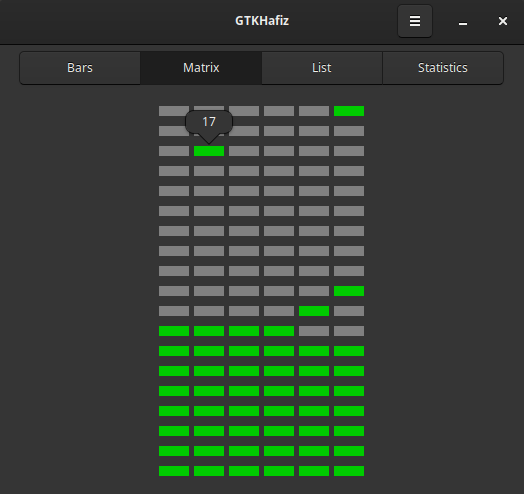
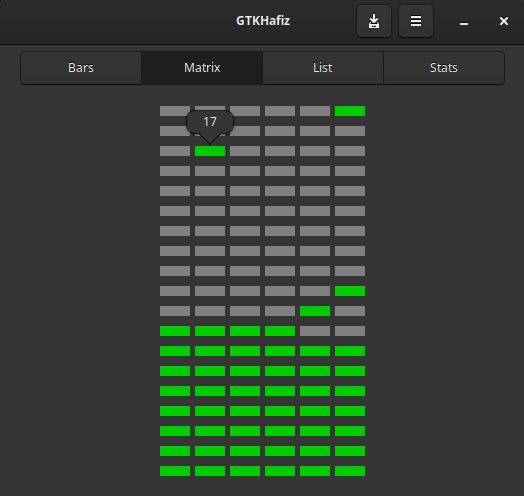
add save button to download bars image; add ctrl+q and ctrl+s shortcuts

diff --git a/src/window.py b/src/window.py
@@ -26,6 +26,15 @@ class Window(Gtk.Window):
                 self.pixbuf = None
                 print(f'Failed to load icon from "{icon_path}"')
 
+        # Shortcuts
+        self.accel_group = Gtk.AccelGroup()
+        self.add_accel_group(self.accel_group)
+
+        key, mod = Gtk.accelerator_parse("<Control>q")
+        self.accel_group.connect(key, mod, Gtk.AccelFlags.VISIBLE, self._on_ctrl_q)
+        
+        key, mod = Gtk.accelerator_parse("<Control>s")
+        self.accel_group.connect(key, mod, Gtk.AccelFlags.VISIBLE, self._on_ctrl_s)
         # Window dimensions
         self.set_size_request(580, 550)
         self.set_resizable(False)
@@ -38,9 +47,9 @@ class Window(Gtk.Window):
         # Menu Popover
         popover_menu = Gtk.Popover()
         vbox = Gtk.Box(orientation=Gtk.Orientation.VERTICAL)
-        bt_about = Gtk.ModelButton(label="About GTKHafiz")
-        bt_about.connect("clicked", self._on_click_about)
-        vbox.pack_start(bt_about, False, True, 10)
+        bt = Gtk.ModelButton(label="About GTKHafiz")
+        bt.connect("clicked", self._on_click_about)
+        vbox.pack_start(bt, False, True, 10)
         vbox.show_all()
         popover_menu.add(vbox)
         popover_menu.set_position(Gtk.PositionType.BOTTOM)
@@ -52,11 +61,19 @@ class Window(Gtk.Window):
         self.set_titlebar(headerbar)
 
         # Menu Button
-        bt_menu = Gtk.MenuButton(popover=popover_menu)
+        bt = Gtk.MenuButton(popover=popover_menu)
         icon = Gio.ThemedIcon(name="open-menu-symbolic")
         img_icon = Gtk.Image.new_from_gicon(icon, Gtk.IconSize.BUTTON)
-        bt_menu.add(img_icon)
-        headerbar.pack_end(bt_menu)
+        bt.add(img_icon)
+        headerbar.pack_end(bt)
+
+        # Save button
+        bt = Gtk.Button()
+        icon = Gio.ThemedIcon(name='document-save-symbolic')
+        img_icon = Gtk.Image.new_from_gicon(icon, Gtk.IconSize.BUTTON)
+        bt.add(img_icon)
+        bt.connect("clicked", self._on_click_save)
+        headerbar.pack_end(bt)
 
         # Stack
         stack = Gtk.Stack()
@@ -132,7 +149,7 @@ class Window(Gtk.Window):
         # Stats Tab
         self.label_stats = Gtk.Label()
         self._refresh_stats_label()
-        stack.add_titled(self.label_stats, "stats", "Statistics")
+        stack.add_titled(self.label_stats, "stats", "Stats")
 
         # Chapter Popover
         self.popover_chapter = Gtk.Popover()
@@ -153,6 +170,46 @@ class Window(Gtk.Window):
 
         outerbox.pack_start(stackswitcher, False, True, 0)
         outerbox.pack_start(stack, True, True, 0)
+
+    def _on_ctrl_q(self, accel_group, window, key, modifier):
+        self.app.quit()
+        
+    def _on_ctrl_s(self, accel_group, window, key, modifier):
+        self._open_save_dialog()
+
+    def _on_click_save(self, widget):
+        self._open_save_dialog()
+        
+    def _open_save_dialog(self):
+        dialog = Gtk.FileChooserDialog(title="Download bars", parent=self, action=Gtk.FileChooserAction.SAVE)
+        dialog.set_do_overwrite_confirmation(True)
+        dialog.set_current_folder(os.path.expanduser("~"))
+        dialog.set_current_name("bars.png")
+        dialog.add_buttons(
+            Gtk.STOCK_CANCEL,
+            Gtk.ResponseType.CANCEL,
+            Gtk.STOCK_SAVE,
+            Gtk.ResponseType.OK,
+        )
+
+        self._add_file_filters(dialog)
+        
+        response = dialog.run()
+        if response == Gtk.ResponseType.OK:
+            self._save_pb_to_png(dialog.get_filename())
+
+        dialog.destroy()
+
+    def _add_file_filters(self, dialog):
+        file_filter = Gtk.FileFilter()
+        file_filter.set_name("PNG image")
+        file_filter.add_mime_type("image/png")
+        dialog.add_filter(file_filter)
+
+        file_filter = Gtk.FileFilter()
+        file_filter.set_name("Any files")
+        file_filter.add_pattern("*")
+        dialog.add_filter(file_filter)
 
     def _on_click_outside_popover(self, widget, event):
         # Hide only when clicking in a point that is not the one that opened the popover
@@ -188,9 +245,8 @@ class Window(Gtk.Window):
 
     def _on_click_about(self, widget):
         about = Gtk.AboutDialog(transient_for=self, modal=True)
-
         about.set_program_name("GTKHafiz")
-        about.set_version("0.3.0")
+        about.set_version("0.4.0")
         about.set_comments("Track Qur'an memorization visually")
         about.set_website("https://github.com/omarelladen/GTK-Hafiz")
         about.set_website_label("Repository")
@@ -296,3 +352,32 @@ class Window(Gtk.Window):
             f"<big><b>Words:</b> {self.app.user.n_mem_words} ({round(self.app.user.n_mem_words / self.app.book.n_words * 100, 1)}%)</big>\n"
             f"<big><b>Letters:</b> {self.app.user.n_mem_letters} ({round(self.app.user.n_mem_letters / self.app.book.n_letters * 100, 1)}%)</big>"
         )
+
+    def _save_pb_to_png(self, filename):
+        max_x = max(rect.x + rect.width  for rect in self.list_rect_progress_bar)
+        max_y = max(rect.y + rect.height for rect in self.list_rect_progress_bar)
+
+        # Add padding
+        surface_width  = int(max_x + self.pb_x0)
+        surface_height = int(max_y + self.pb_y0)
+
+        # Create a Cairo surface
+        surface = cairo.ImageSurface(cairo.FORMAT_ARGB32, surface_width, surface_height)
+        cr = cairo.Context(surface)
+
+        # Set background
+        cr.set_source_rgb(1, 1, 1)
+        cr.paint()
+
+        # Draw all rectangles
+        for rect in self.list_rect_progress_bar:
+            cr.set_source_rgb(*rect.color)
+            cr.rectangle(rect.x, rect.y, rect.width, rect.height)
+            cr.fill()
+
+        # Save to PNG
+        try:
+            surface.write_to_png(filename)
+            surface.finish()
+        except Exception as e:
+            print(f"Failed to save bars image at {filename}: {e}")

diff --git a/src/app.py b/src/app.py
@@ -26,9 +26,12 @@ class App():
         self.win.show_all()
     
     def _on_destroy(self, window):
+        self.quit()
+
+    def quit(self):
         if self.user_data_changed:
             self.db_manager.save_user_data(self.user)
         Gtk.main_quit()
-
+        
     def run(self):
         Gtk.main()
